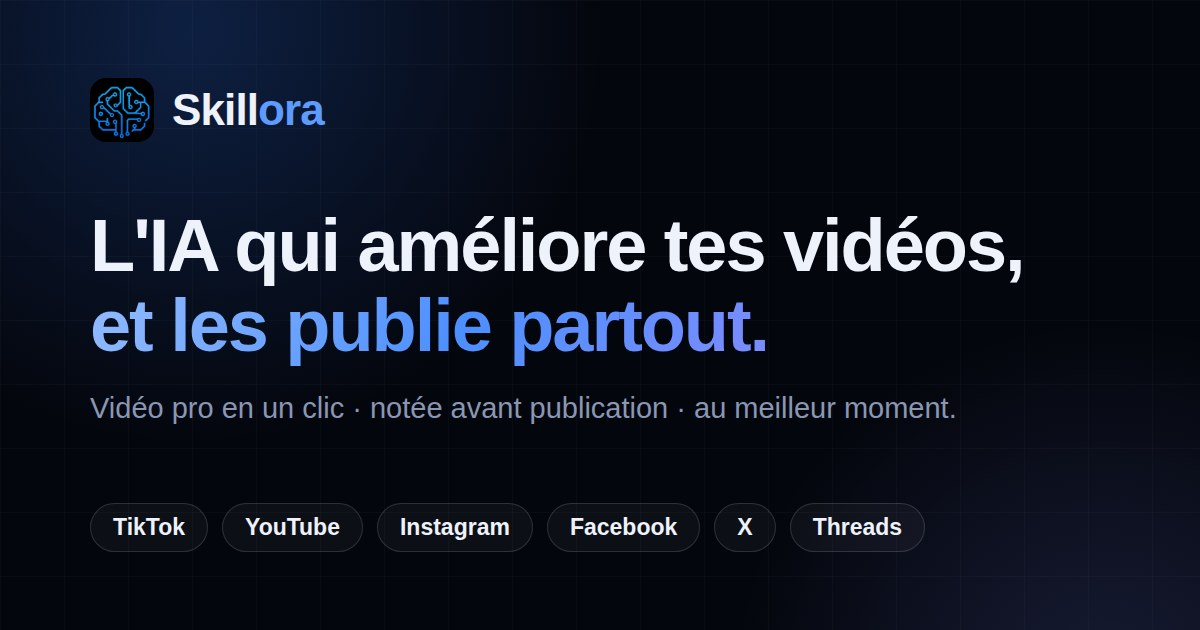
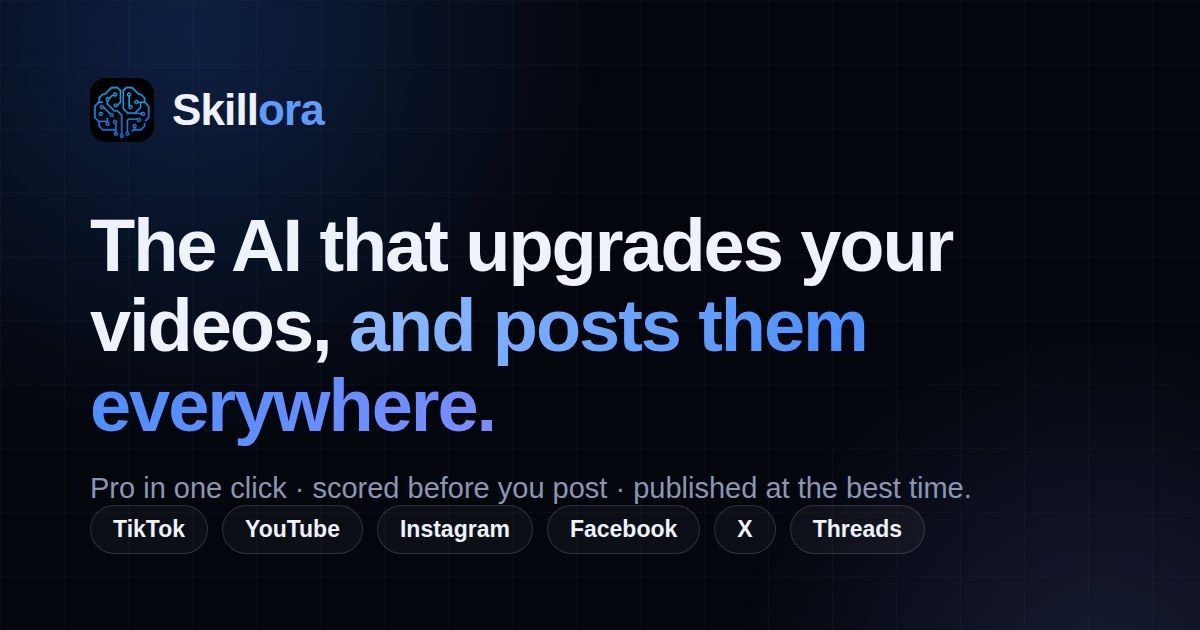
Fin de page interactive : zone de dépôt pro « Ajoute ta vidéo. On l'améliore. » — aperçu local de la vidéo du visiteur, animation d'amélioration, puis envoi vers l'inscription. SEO et carte de partage passés en anglais (cible anglophone)

Changed region(s): [[0.0617, 0.3317, 0.8633, 0.6032], [0.0617, 0.754, 0.8017, 0.9048], [0.0617, 0.6032, 0.8017, 0.7238]]

diff --git a/index.html b/index.html
@@ -11,23 +11,23 @@
   })();
 </script>
 <meta name="viewport" content="width=device-width, initial-scale=1.0">
-<title>Skillora — L'IA qui améliore tes vidéos et les publie partout</title>
-<meta name="description" content="Skillora rend ta vidéo pro en un clic, te dit si elle va percer, et la publie sur TikTok, YouTube, Instagram, Facebook, X et Threads — au meilleur moment.">
+<title>Skillora — The AI that upgrades your videos and posts them everywhere</title>
+<meta name="description" content="Skillora makes your video pro in one click, tells you if it will take off, and posts it to TikTok, YouTube, Instagram, Facebook, X and Threads at the best time.">
 <link rel="canonical" href="https://skillora.me/">
 <meta name="robots" content="index,follow">
 <!-- Partage réseaux sociaux (carte riche) -->
 <meta property="og:type" content="website">
 <meta property="og:site_name" content="Skillora">
-<meta property="og:locale" content="fr_FR">
+<meta property="og:locale" content="en_US">
 <meta property="og:url" content="https://skillora.me/">
-<meta property="og:title" content="Skillora — L'IA qui améliore tes vidéos et les publie partout">
-<meta property="og:description" content="Ta vidéo devient pro en un clic, notée avant publication, publiée sur tous tes réseaux au meilleur moment.">
+<meta property="og:title" content="Skillora — The AI that upgrades your videos and posts them everywhere">
+<meta property="og:description" content="Your video goes pro in one click — scored before you post, published everywhere at the best time.">
 <meta property="og:image" content="https://skillora.me/assets/og-cover.jpg">
 <meta property="og:image:width" content="1200">
 <meta property="og:image:height" content="630">
 <meta name="twitter:card" content="summary_large_image">
-<meta name="twitter:title" content="Skillora — L'IA qui améliore tes vidéos et les publie partout">
-<meta name="twitter:description" content="Ta vidéo devient pro en un clic, notée avant publication, publiée sur tous tes réseaux au meilleur moment.">
+<meta name="twitter:title" content="Skillora — The AI that upgrades your videos and posts them everywhere">
+<meta name="twitter:description" content="Your video goes pro in one click — scored before you post, published everywhere at the best time.">
 <meta name="twitter:image" content="https://skillora.me/assets/og-cover.jpg">
 <!-- Données structurées Google (fiche riche) -->
 <script type="application/ld+json">
@@ -39,8 +39,7 @@
   "image": "https://skillora.me/assets/og-cover.jpg",
   "applicationCategory": "MultimediaApplication",
   "operatingSystem": "Web",
-  "inLanguage": "fr",
-  "description": "Skillora rend ta vidéo pro en un clic, te dit si elle va percer, et la publie sur TikTok, YouTube, Instagram, Facebook, X et Threads au meilleur moment.",
+  "description": "Skillora makes your video pro in one click, tells you if it will take off, and posts it to TikTok, YouTube, Instagram, Facebook, X and Threads at the best time.",
   "offers": { "@type": "AggregateOffer", "priceCurrency": "USD", "lowPrice": "25", "highPrice": "89", "offerCount": "3" },
   "publisher": { "@type": "Organization", "name": "Skillora", "url": "https://skillora.me/", "logo": "https://skillora.me/apple-touch-icon.png" }
 }
@@ -526,10 +525,26 @@
   /* ===== CTA finale + footer ===== */
   .final-cta { padding:70px 0 115px; text-align:center; }
   .final-cta-inner { max-width:760px; margin:0 auto; }
-  .final-cta-inner h2 { font-size:clamp(2rem,7vw,3.1rem); line-height:1.08; letter-spacing:-0.03em; margin-bottom:16px; }
-  .final-cta-inner p { color:var(--muted); font-size:clamp(.94rem,2.6vw,1.05rem); margin:0 auto 28px; max-width:34em; }
-  .final-cta-inner .hero-note { margin-top:13px; }
+  .final-cta-inner h2 { font-size:clamp(1.7rem,6vw,2.6rem); line-height:1.1; letter-spacing:-0.03em; margin-bottom:8px; }
+  .final-cta-inner .hero-note { margin-top:14px; }
   .gz-center { transform-origin:center; }
+  /* Zone de dépôt : le visiteur essaie avec SA vidéo (rien n'est envoyé : aperçu local) */
+  .drop { max-width:500px; margin:26px auto 0; border:1.5px dashed rgba(94,155,255,0.42); border-radius:20px; background:rgba(47,123,255,0.05); padding:32px 22px; cursor:pointer; transition:border-color .2s, background .2s; }
+  .drop:hover, .drop.over { border-color:var(--blue-light); background:rgba(47,123,255,0.1); }
+  .drop.busy { cursor:default; border-style:solid; border-color:rgba(94,155,255,0.32); display:flex; gap:16px; align-items:center; text-align:left; padding:16px; }
+  .dz-ic { width:52px; height:52px; margin:0 auto 12px; border-radius:15px; background:linear-gradient(135deg,#4d8fff,#7c8cff); display:flex; align-items:center; justify-content:center; box-shadow:0 16px 34px -14px rgba(47,123,255,0.8); }
+  .dz-ic svg { width:24px; height:24px; stroke:#fff; stroke-width:2; fill:none; stroke-linecap:round; stroke-linejoin:round; }
+  .dz-t1 { font-weight:700; font-size:.98rem; }
+  .dz-t2 { color:var(--muted); font-size:.8rem; margin-top:5px; }
+  .dz-prev { width:86px; aspect-ratio:9/16; border-radius:12px; overflow:hidden; position:relative; flex:none; background:#000; box-shadow:0 10px 26px -12px rgba(0,0,0,0.8); }
+  .dz-prev video, .dz-prev img { width:100%; height:100%; object-fit:cover; }
+  .dz-scan { position:absolute; left:0; right:0; height:34%; background:linear-gradient(180deg, transparent, rgba(120,170,255,0.4), transparent); animation:dzscan 1.5s linear infinite; }
+  @keyframes dzscan { 0% { top:-35%; } 100% { top:100%; } }
+  .dz-side { flex:1; min-width:0; }
+  .dz-step { font-size:.86rem; font-weight:600; margin-bottom:10px; min-height:1.3em; }
+  .dz-bar { height:7px; border-radius:99px; background:rgba(255,255,255,0.09); overflow:hidden; }
+  .dz-bar span { display:block; height:100%; width:0; border-radius:99px; background:linear-gradient(90deg,#4d8fff,#7c8cff); transition:width .12s linear; }
+  .dz-pct { margin-top:8px; font-size:.78rem; color:var(--muted); font-variant-numeric:tabular-nums; }
   .foot { border-top:1px solid var(--border); padding:42px 0 28px; }
   .foot-top { display:flex; justify-content:space-between; gap:38px; flex-wrap:wrap; margin-bottom:30px; }
   .foot-brand p { color:var(--muted); font-size:.82rem; max-width:270px; margin-top:9px; line-height:1.5; }
@@ -897,10 +912,14 @@
 <section class="final-cta">
   <div class="wrap">
     <div class="final-cta-inner gz-item gz-center">
-      <h2>Envoie une vidéo.<br><span class="hl-brand">Regarde-la percer.</span></h2>
-      <p>Pro en un clic, publiée sur tous tes réseaux au meilleur moment — pendant que toi, tu crées.</p>
-      <a class="btn-primary-lg" href="signup.html">Créer mon compte →</a>
-      <div class="hero-note">Ton compte est prêt en 30 secondes.</div>
+      <h2>Ajoute ta vidéo. <span class="hl-brand">On l'améliore.</span></h2>
+      <div class="drop" id="dropZone">
+        <div class="dz-ic"><svg viewBox="0 0 24 24"><path d="M12 16V4"/><path d="m6 10 6-6 6 6"/><path d="M4 20h16"/></svg></div>
+        <div class="dz-t1">Dépose ta vidéo ici</div>
+        <div class="dz-t2">ou touche pour la choisir — clip, facecam, edit, repost</div>
+      </div>
+      <input type="file" id="dropInput" accept="video/*,image/*" style="display:none">
+      <div class="hero-note">Ta vidéo reste sur ton appareil.</div>
     </div>
   </div>
 </section>
@@ -1133,6 +1152,52 @@
       entries.forEach(function(en){ en.target.classList.toggle('gz', en.isIntersecting); });
     }, { threshold: 0.35 });
     els.forEach(function(e){ io.observe(e); });
+  })();
+
+  /* ===== Zone de dépôt finale : essai avec SA vidéo (aperçu 100% local, rien n'est envoyé) ===== */
+  (function(){
+    var dz = document.getElementById('dropZone');
+    var inp = document.getElementById('dropInput');
+    if (!dz || !inp) return;
+    function start(file){
+      if (!file || dz.classList.contains('busy')) return;
+      var url = '';
+      try { url = URL.createObjectURL(file); } catch(e) {}
+      var isImg = (file.type || '').indexOf('image') === 0;
+      var media = isImg
+        ? '<img src="' + url + '" alt="">'
+        : '<video src="' + url + '" muted autoplay loop playsinline></video>';
+      dz.classList.add('busy');
+      dz.innerHTML =
+        '<div class="dz-prev">' + media + '<span class="dz-scan"></span></div>' +
+        '<div class="dz-side">' +
+          '<div class="dz-step" id="dzStep">Analyse de ta vidéo…</div>' +
+          '<div class="dz-bar"><span id="dzFill"></span></div>' +
+          '<div class="dz-pct" id="dzPct">0%</div>' +
+        '</div>';
+      var steps = ['Analyse de ta vidéo…', 'Coupes & rythme ✂️', 'Sous-titres dynamiques 💬', 'Colorimétrie & son 🎨', 'Derniers réglages…'];
+      var t0 = Date.now(), DUR = 3600;
+      var iv = setInterval(function(){
+        var p = Math.min(100, Math.round((Date.now() - t0) / DUR * 100));
+        var f = document.getElementById('dzFill'), pc = document.getElementById('dzPct'), st = document.getElementById('dzStep');
+        if (f) f.style.width = p + '%';
+        if (pc) pc.textContent = p + '%';
+        if (st && p < 100) st.textContent = steps[Math.min(steps.length - 1, Math.floor(p / (100 / steps.length)))];
+        if (p >= 100) {
+          clearInterval(iv);
+          if (st) st.textContent = 'Prête ✅ Crée ton compte pour la récupérer';
+          setTimeout(function(){ window.location.href = 'signup.html'; }, 1100);
+        }
+      }, 60);
+    }
+    dz.addEventListener('click', function(){ if (!dz.classList.contains('busy')) inp.click(); });
+    inp.addEventListener('change', function(){ start(inp.files && inp.files[0]); });
+    dz.addEventListener('dragover', function(e){ e.preventDefault(); dz.classList.add('over'); });
+    dz.addEventListener('dragleave', function(){ dz.classList.remove('over'); });
+    dz.addEventListener('drop', function(e){
+      e.preventDefault(); dz.classList.remove('over');
+      start(e.dataTransfer && e.dataTransfer.files && e.dataTransfer.files[0]);
+    });
   })();
 
   /* ===== Reveal au scroll (avec filets de sécurité) ===== */